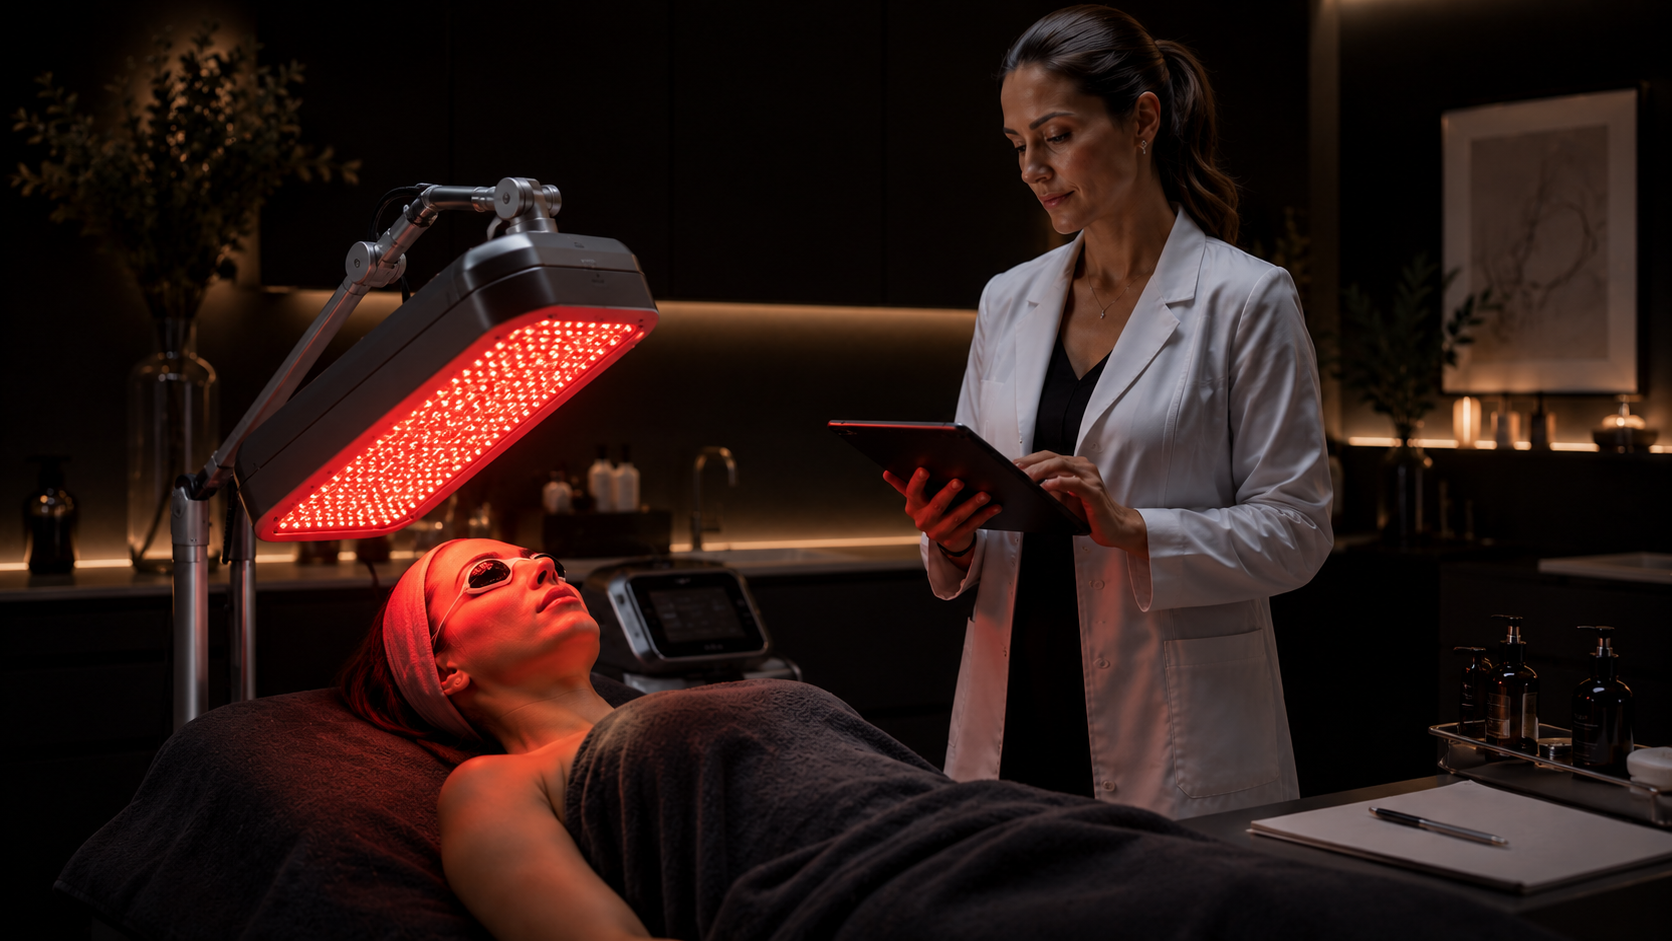
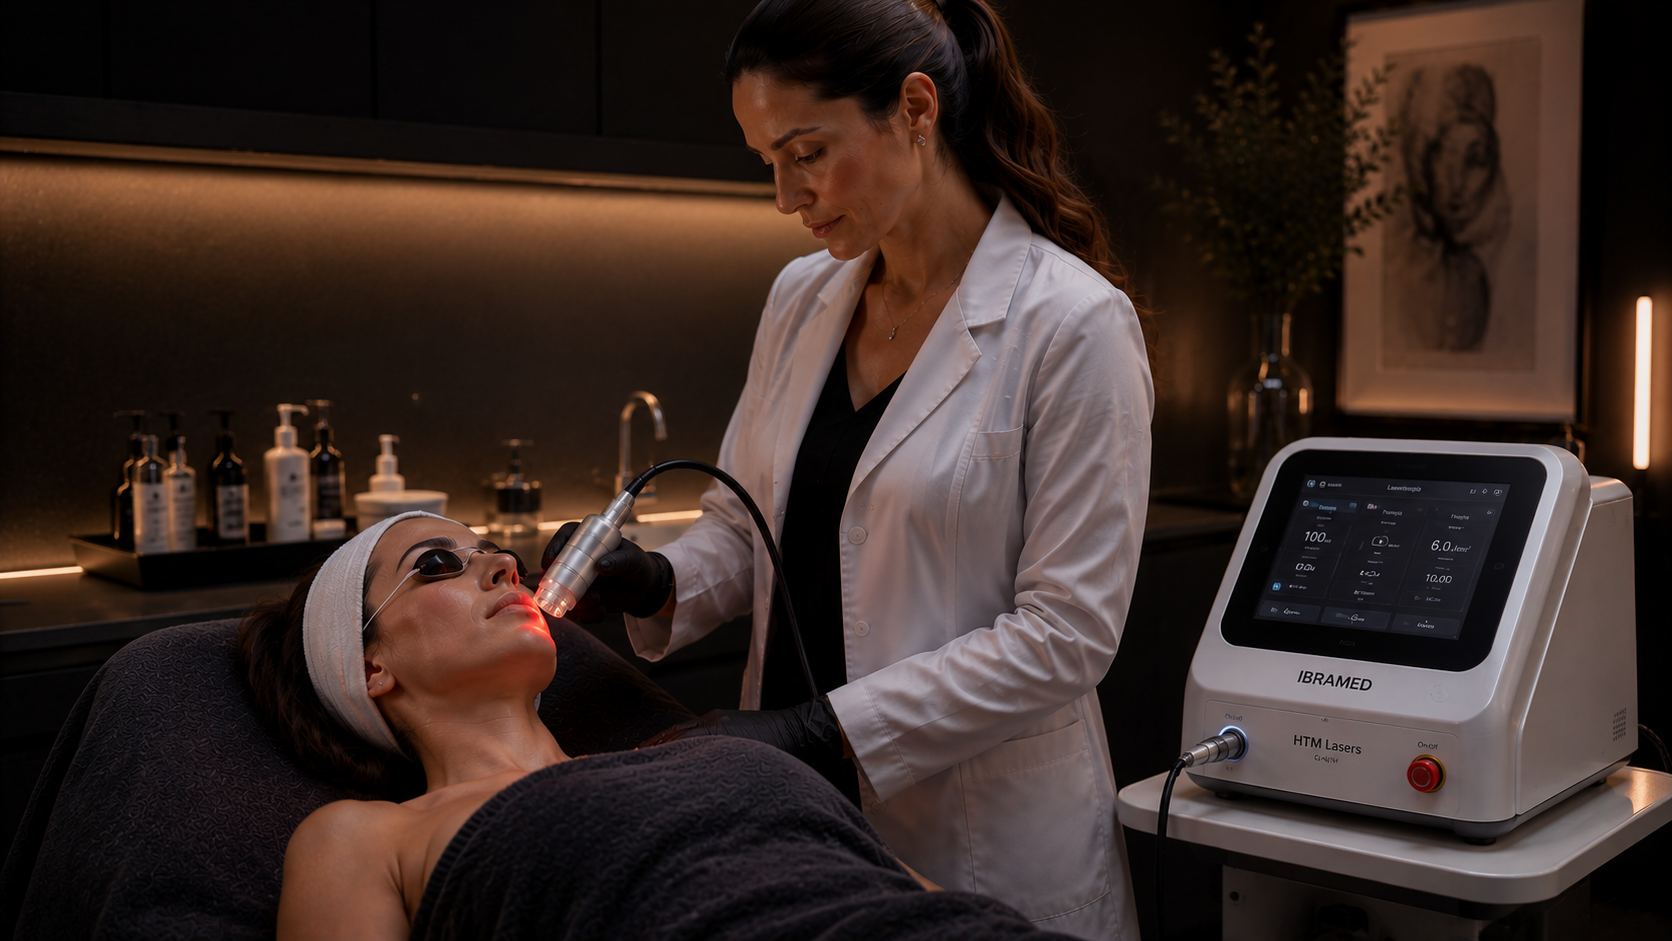
feat: instala Google Tag Manager (GTM-KTHL2SP9) em todas as páginas
snippets no head e body de todas as 7 páginas HTML existentes

diff --git a/_template.html b/_template.html
@@ -13,8 +13,19 @@
    CSS específico desta página
 ═══════════════════════════════════════════════════════ */
 </style>
+<!-- Google Tag Manager -->
+<script>(function(w,d,s,l,i){w[l]=w[l]||[];w[l].push({'gtm.start':
+new Date().getTime(),event:'gtm.js'});var f=d.getElementsByTagName(s)[0],
+j=d.createElement(s),dl=l!='dataLayer'?'&l='+l:'';j.async=true;j.src=
+'https://www.googletagmanager.com/gtm.js?id='+i+dl;f.parentNode.insertBefore(j,f);
+})(window,document,'script','dataLayer','GTM-KTHL2SP9');</script>
+<!-- End Google Tag Manager -->
 </head>
 <body>
+<!-- Google Tag Manager (noscript) -->
+<noscript><iframe src="https://www.googletagmanager.com/ns.html?id=GTM-KTHL2SP9"
+height="0" width="0" style="display:none;visibility:hidden"></iframe></noscript>
+<!-- End Google Tag Manager (noscript) -->
 
 <!-- Cabeçalho injetado por components.js -->
 <div id="site-header"></div>

diff --git a/cursos.html b/cursos.html
@@ -1092,8 +1092,19 @@
   .proof-strip__inner           { grid-template-columns: repeat(2, 1fr); }
 }
 </style>
+<!-- Google Tag Manager -->
+<script>(function(w,d,s,l,i){w[l]=w[l]||[];w[l].push({'gtm.start':
+new Date().getTime(),event:'gtm.js'});var f=d.getElementsByTagName(s)[0],
+j=d.createElement(s),dl=l!='dataLayer'?'&l='+l:'';j.async=true;j.src=
+'https://www.googletagmanager.com/gtm.js?id='+i+dl;f.parentNode.insertBefore(j,f);
+})(window,document,'script','dataLayer','GTM-KTHL2SP9');</script>
+<!-- End Google Tag Manager -->
 </head>
 <body>
+<!-- Google Tag Manager (noscript) -->
+<noscript><iframe src="https://www.googletagmanager.com/ns.html?id=GTM-KTHL2SP9"
+height="0" width="0" style="display:none;visibility:hidden"></iframe></noscript>
+<!-- End Google Tag Manager (noscript) -->
 
 <div id="site-header"></div>
 

diff --git a/encontre.html b/encontre.html
@@ -137,8 +137,19 @@
   .buscador-wrap .mpnl{padding:14px 10px 8px}
 }
 </style>
+<!-- Google Tag Manager -->
+<script>(function(w,d,s,l,i){w[l]=w[l]||[];w[l].push({'gtm.start':
+new Date().getTime(),event:'gtm.js'});var f=d.getElementsByTagName(s)[0],
+j=d.createElement(s),dl=l!='dataLayer'?'&l='+l:'';j.async=true;j.src=
+'https://www.googletagmanager.com/gtm.js?id='+i+dl;f.parentNode.insertBefore(j,f);
+})(window,document,'script','dataLayer','GTM-KTHL2SP9');</script>
+<!-- End Google Tag Manager -->
 </head>
 <body>
+<!-- Google Tag Manager (noscript) -->
+<noscript><iframe src="https://www.googletagmanager.com/ns.html?id=GTM-KTHL2SP9"
+height="0" width="0" style="display:none;visibility:hidden"></iframe></noscript>
+<!-- End Google Tag Manager (noscript) -->
 
 <!-- Cabeçalho injetado por components.js -->
 <div id="site-header"></div>

diff --git a/index.html b/index.html
@@ -365,8 +365,19 @@
   .fm-options { grid-template-columns: 1fr; }
 }
 </style>
+<!-- Google Tag Manager -->
+<script>(function(w,d,s,l,i){w[l]=w[l]||[];w[l].push({'gtm.start':
+new Date().getTime(),event:'gtm.js'});var f=d.getElementsByTagName(s)[0],
+j=d.createElement(s),dl=l!='dataLayer'?'&l='+l:'';j.async=true;j.src=
+'https://www.googletagmanager.com/gtm.js?id='+i+dl;f.parentNode.insertBefore(j,f);
+})(window,document,'script','dataLayer','GTM-KTHL2SP9');</script>
+<!-- End Google Tag Manager -->
 </head>
 <body>
+<!-- Google Tag Manager (noscript) -->
+<noscript><iframe src="https://www.googletagmanager.com/ns.html?id=GTM-KTHL2SP9"
+height="0" width="0" style="display:none;visibility:hidden"></iframe></noscript>
+<!-- End Google Tag Manager (noscript) -->
 
 <!-- Cabeçalho injetado por components.js -->
 <div id="site-header"></div>

diff --git a/lps/cursos/fbm-estetica-facial.html b/lps/cursos/fbm-estetica-facial.html
@@ -608,8 +608,19 @@ img { display: block; max-width: 100%; }
   .modal-box { padding: 36px 24px; }
 }
 </style>
+<!-- Google Tag Manager -->
+<script>(function(w,d,s,l,i){w[l]=w[l]||[];w[l].push({'gtm.start':
+new Date().getTime(),event:'gtm.js'});var f=d.getElementsByTagName(s)[0],
+j=d.createElement(s),dl=l!='dataLayer'?'&l='+l:'';j.async=true;j.src=
+'https://www.googletagmanager.com/gtm.js?id='+i+dl;f.parentNode.insertBefore(j,f);
+})(window,document,'script','dataLayer','GTM-KTHL2SP9');</script>
+<!-- End Google Tag Manager -->
 </head>
 <body>
+<!-- Google Tag Manager (noscript) -->
+<noscript><iframe src="https://www.googletagmanager.com/ns.html?id=GTM-KTHL2SP9"
+height="0" width="0" style="display:none;visibility:hidden"></iframe></noscript>
+<!-- End Google Tag Manager (noscript) -->
 
 <!-- ── HERO ──────────────────────────────────────────── -->
 <section class="hero" id="inicio">

diff --git a/lps/cursos/saude-da-mulher.html b/lps/cursos/saude-da-mulher.html
@@ -1166,9 +1166,20 @@ img { display: block; max-width: 100%; }
   body { padding-bottom: 70px; }
 }
 </style>
+<!-- Google Tag Manager -->
+<script>(function(w,d,s,l,i){w[l]=w[l]||[];w[l].push({'gtm.start':
+new Date().getTime(),event:'gtm.js'});var f=d.getElementsByTagName(s)[0],
+j=d.createElement(s),dl=l!='dataLayer'?'&l='+l:'';j.async=true;j.src=
+'https://www.googletagmanager.com/gtm.js?id='+i+dl;f.parentNode.insertBefore(j,f);
+})(window,document,'script','dataLayer','GTM-KTHL2SP9');</script>
+<!-- End Google Tag Manager -->
 </head>
 
 <body>
+<!-- Google Tag Manager (noscript) -->
+<noscript><iframe src="https://www.googletagmanager.com/ns.html?id=GTM-KTHL2SP9"
+height="0" width="0" style="display:none;visibility:hidden"></iframe></noscript>
+<!-- End Google Tag Manager (noscript) -->
 
 <!-- ══════════════════════════════════════════════════
      1 — HERO

diff --git a/lps/masterclasses/fotobiomodulacao-oncologia.html b/lps/masterclasses/fotobiomodulacao-oncologia.html
@@ -1424,8 +1424,19 @@
       .modal-card { padding: 32px 24px; }
     }
   </style>
+<!-- Google Tag Manager -->
+<script>(function(w,d,s,l,i){w[l]=w[l]||[];w[l].push({'gtm.start':
+new Date().getTime(),event:'gtm.js'});var f=d.getElementsByTagName(s)[0],
+j=d.createElement(s),dl=l!='dataLayer'?'&l='+l:'';j.async=true;j.src=
+'https://www.googletagmanager.com/gtm.js?id='+i+dl;f.parentNode.insertBefore(j,f);
+})(window,document,'script','dataLayer','GTM-KTHL2SP9');</script>
+<!-- End Google Tag Manager -->
 </head>
 <body>
+<!-- Google Tag Manager (noscript) -->
+<noscript><iframe src="https://www.googletagmanager.com/ns.html?id=GTM-KTHL2SP9"
+height="0" width="0" style="display:none;visibility:hidden"></iframe></noscript>
+<!-- End Google Tag Manager (noscript) -->
 
   <!-- ── HERO ─────────────────────────────────────── -->
   <section class="hero" id="inicio">